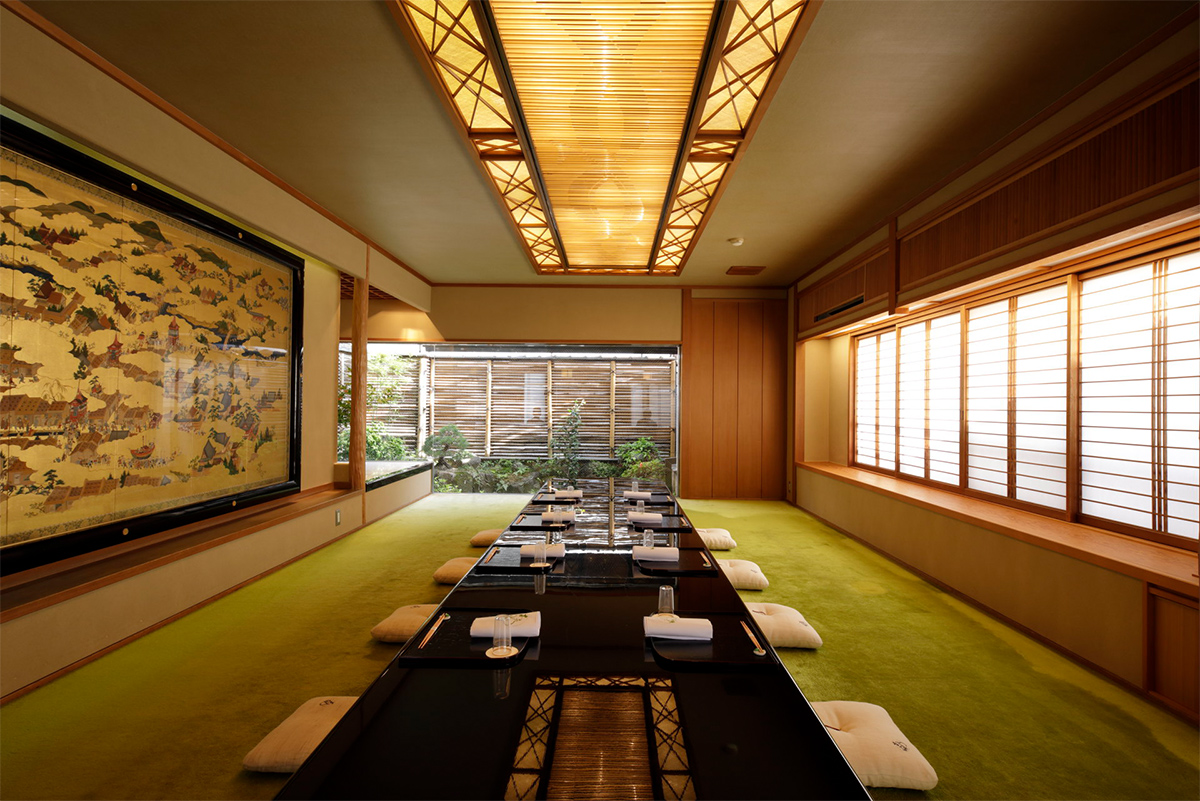
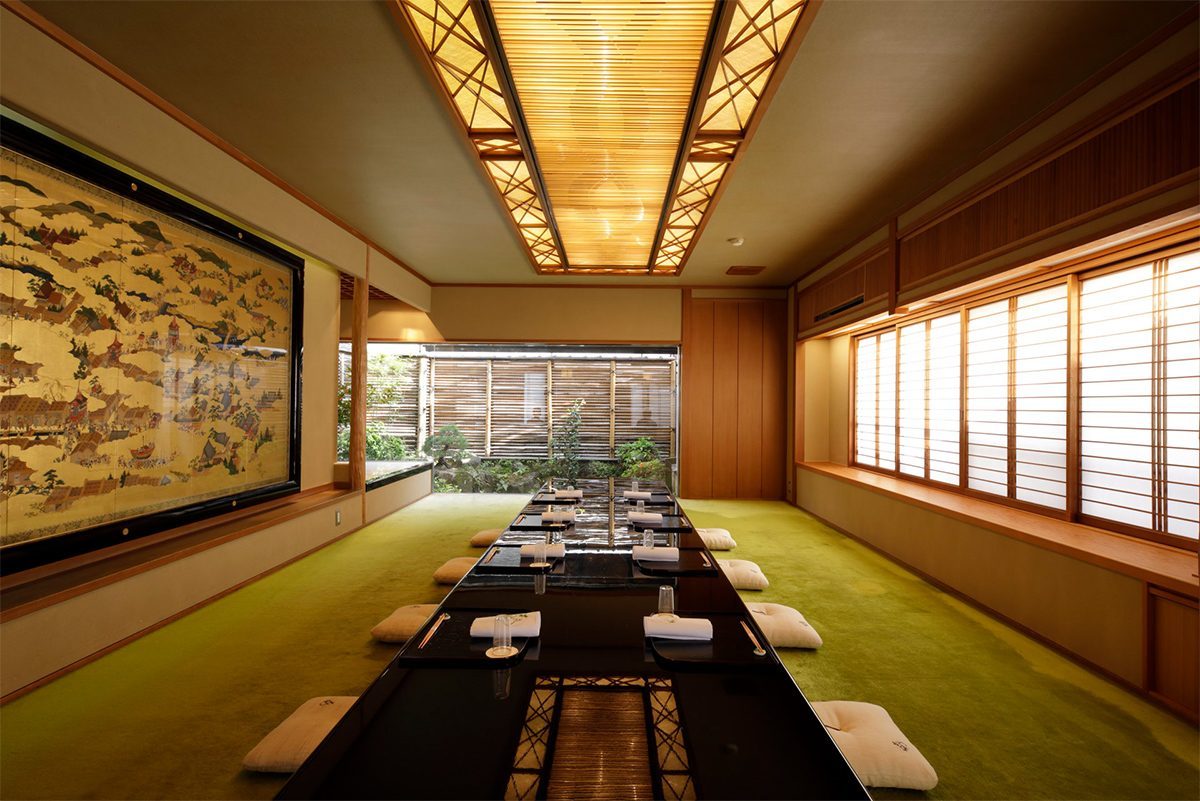
Compress all images for web — 24–31MB → <1MB each

diff --git a/public/index.html b/public/index.html
@@ -958,7 +958,7 @@ footer span { font-size: 0.68rem; color: rgba(196,154,74,0.22); letter-spacing: 
     <div class="gallery-placeholder-cell"><picture><source media="(max-width: 900px)" srcset="assets/images/thumb_dinner_30eunice.jpg"><img src="assets/images/dinner_30eunice.jpg" style="width:100%;height:100%;object-fit:cover;"></picture></div>
     <div class="gallery-placeholder-cell"><picture><source media="(max-width: 900px)" srcset="assets/images/thumb_dinner_chonky.jpg"><img src="assets/images/dinner_chonky.jpg" style="width:100%;height:100%;object-fit:cover;"></picture></div>
     <div class="gallery-placeholder-cell"><picture><source media="(max-width: 900px)" srcset="assets/images/thumb_dinner_67.jpg"><img src="assets/images/dinner_67.jpg" style="width:100%;height:100%;object-fit:cover;"></picture></div>
-    <div class="gallery-placeholder-cell"><picture><source media="(max-width: 900px)" srcset="assets/images/thumb_dinner_albert.jpg"><img src="assets/images/dinner_albert.png" style="width:100%;height:100%;object-fit:cover;"></picture></div>
+    <div class="gallery-placeholder-cell"><picture><source media="(max-width: 900px)" srcset="assets/images/thumb_dinner_albert.jpg"><img src="assets/images/dinner_albert.jpg" style="width:100%;height:100%;object-fit:cover;"></picture></div>
     <div class="gallery-placeholder-cell"><picture><source media="(max-width: 900px)" srcset="assets/images/thumb_dinner_april.jpg"><img src="assets/images/dinner_april.jpeg" style="width:100%;height:100%;object-fit:cover;"></picture></div>
   </div>
   </div>
